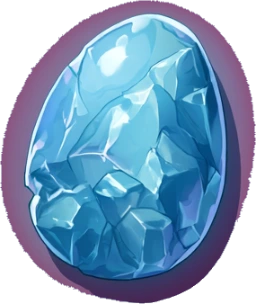
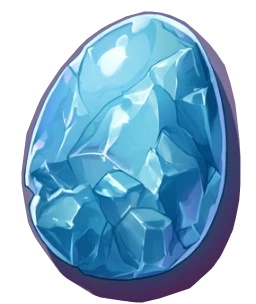
Yumurtalar her ekranda elementinin cizimiyle (catlatma, kulucka, kiraathane); Buz, Firtina, Toprak cizimlerindeki mor kenar temizlendi; Ozan kendiliginden calmaz, yalniz turku istenince

diff --git a/eo2/js/ocak25.js b/eo2/js/ocak25.js
@@ -34,7 +34,8 @@
       ...[...YENI, 'ev', 'kule', 'cali0', 'cali1', 'cali2', 'cit'].map(k => yukle('assets/dunya/an/oc-' + k + '.webp').then(im => { if (im) EO2.ext['on-' + k] = im; })),
       ...ESYA.map(k => yukle('assets/dunya/an/' + k + '.webp').then(im => { if (im) EO2.ext['on-' + k] = im; })),
       ...['cim', 'toprak', 'tas'].map(k => yukle('assets/zemin/' + k + '.webp').then(im => { if (im) EO2.ext['zm-' + k] = im; })), yukle('assets/dunya/an/ky-cim.webp').then(im => { if (im) EO2.ext['zm-cayir'] = im; }),
-      yukle('assets/bg/ocak-ufuk.webp').then(im => { if (im) EO2.ext['oc-ufuk'] = im; })]);
+      yukle('assets/bg/ocak-ufuk.webp').then(im => { if (im) EO2.ext['oc-ufuk'] = im; }),
+      ...[...ELS, 'soy'].map(k => yukle('assets/ik/yum-' + k + '.webp?v=2').then(im => { if (im) EO2.ext['yum-' + k] = im; }))]);
     /* yol dokusu: toprağın karşıtlığı azaltılmış kopyası. Motor zemin kabartmasını döşeme dokusundan çıkarıp bütün zemine uygular; ham dokuda taş izleri çime de çıkıyordu. */
     const tp = EO2.ext['zm-toprak']; if (tp && EO2.doku && EO2.doku.zemin) { EO2.doku.zemin['oc-yol'] = cv(1024, 1024, (x, w) => { x.drawImage(tp, 0, 0, w, w); x.fillStyle = 'rgba(206,172,122,.62)'; x.fillRect(0, 0, w, w); }); L.zemin = ['oc-yol', 'cim', 5.2, 9.5]; } })());
   (EO2.sahneOnce = EO2.sahneOnce || {}).ocak = onYukle;   // çizimler açılışta değil, Ocak'a girilirken yüklenir (game.js goScene bekler)
@@ -198,7 +199,8 @@
       for (let i = 0; i < 4; i++) tas(x, S * (0.18 + rn() * 0.64), S * (0.18 + rn() * 0.64), 8 + rn() * 6, 6 + rn() * 3, ['#8f8a86', '#6a6a6c']); } })));
     const tPed = [0, 1, 2].map(v => tex(leke(zTop, 256, 3600 + v * 29, 2.4, { kare: true, k: 0.375, ek(x, S) { for (const [a, b] of [[40, 214], [214, 216], [128, 232]]) tas(x, a + (rn() - 0.5) * 20, b - rn() * 8, 9 + rn() * 4, 6 + rn() * 2, TAS_RENK[Math.floor(rn() * 3)]); } })));
     const tKose = tex(cv(128, 128, (x, w, hh2) => { x.strokeStyle = '#ffe9a8'; x.lineWidth = 5; x.lineCap = 'round'; x.lineJoin = 'round'; const k = 24, m = 7; for (const [a, b, sx, sy] of [[m, m, 1, 1], [w - m, m, -1, 1], [m, hh2 - m, 1, -1], [w - m, hh2 - m, -1, -1]]) { x.beginPath(); x.moveTo(a + sx * k, b); x.lineTo(a, b); x.lineTo(a, b + sy * k); x.stroke(); } }));
-    const tCali = [0, 1, 2].map(v => { const c = cali(v), t = R.texture(c); return { t, w: TS * 0.98, h: TS * 0.98 * c.height / c.width }; }), tYum = R.texture(yumurta());
+    const tCali = [0, 1, 2].map(v => { const c = cali(v), t = R.texture(c); return { t, w: TS * 0.98, h: TS * 0.98 * c.height / c.width }; }), tYum = R.texture(yumurta()), tYumE = {}; [...ELS, 'soy'].forEach(k => { const im = (EO2.ext || {})['yum-' + k]; if (im) tYumE[k] = R.texture(cv(im.naturalWidth, im.naturalHeight, x => x.drawImage(im, 0, 0))); });
+    const yumDoku = q => { const m = /yum-(\w+)\.webp/.exec(G.yumurtaResim(q) || ''); return (m && tYumE[m[1]]) || tYum; };
     const KT = [...tYab, ...tPed, ...tBos];
     h.push({ key: 898, draw(R, F) { const S = W(); if (!S || !S.grid) return;
       const a = TS / 2 - 0.02; for (const tt of KT) S.grid.forEach((t, i) => { if ((!t.open ? tYab[i % 2] : t.b ? tPed[i % 3] : tBos[i % 2]) !== tt) return; const x = cx(i), y = cy(i), f = i % 2, g = (i >> 1) % 2;
@@ -223,7 +225,7 @@
         const I = ISIK[t.b]; if (I && (yeniC || eskiC)) { const gk = (0.12 + F.night * 0.7 + Math.sin(F.time * 3.1 + i) * 0.04) * a * it.cover, gz = bh * I[3], gr = Math.max(bw, bh) * 0.55; R.quad(h.T.fx, [x - gr, it.y - 0.04, gz - gr], [x + gr, it.y - 0.04, gz - gr], [x + gr, it.y - 0.04, gz + gr], [x - gr, it.y - 0.04, gz + gr], glow[0], glow[1], glow[2], glow[3], [I[0] * gk, I[1] * gk, I[2] * gk, 1], true, 0); }
         if (t.b === 'kulucka') { const eggs = (S.eggs || []).filter(q => q.inK), n = S.grid.filter(q => q.b === 'kulucka').length || 1, ki = S.grid.slice(0, i).filter(q => q.b === 'kulucka').length; eggs.filter((q, j) => j % n === ki).slice(0, 2).forEach((q, j) => { const ex = x + (j ? 0.42 : -0.02), ez = (yeniC ? 0.36 : 0.34) + Math.sin(F.time * 2 + j) * 0.03, g2 = 0.9 + Math.sin(F.time * 3 + j) * 0.25;
             R.quad(h.T.fx, [ex - 0.8, it.y - 0.04, ez - 0.4], [ex + 0.8, it.y - 0.04, ez - 0.4], [ex + 0.8, it.y - 0.04, ez + 1.2], [ex - 0.8, it.y - 0.04, ez + 1.2], glow[0], glow[1], glow[2], glow[3], [0.9 * g2 * a, 0.5 * g2 * a, 0.15 * g2 * a, 1], true, 0);
-            R.quad(tYum, [ex - 0.27, it.y - 0.05, ez], [ex + 0.27, it.y - 0.05, ez], [ex + 0.27, it.y - 0.05, ez + 0.68], [ex - 0.27, it.y - 0.05, ez + 0.68], 0, 0, 1, 1, c); }); } } }; h.push(it); }
+            R.quad(yumDoku(q), [ex - 0.26, it.y - 0.05, ez], [ex + 0.26, it.y - 0.05, ez], [ex + 0.26, it.y - 0.05, ez + 0.69], [ex - 0.26, it.y - 0.05, ez + 0.69], 0, 0, 1, 1, c); }); } } }; h.push(it); }
     /* ejderhalar: gerçek boylarında, nefes alır, yürürken hafifçe sallanır */
     const gorT = new Map();   // gen renkli görünüş resimlerinin dokuları
     for (let k = 0; k < ejSlot.length; k++) { const it = { key: -99, draw(R, F) { const S = W(), d = S && S.dragons ? S.dragons.filter(q => !q.dead)[k] : null, g = d && gez[d.id]; if (!g) { it.key = -99; return; } it.key = g.y; const gi = G.gorunusIm && d.genes ? G.gorunusIm(d) : null; let e = null; if (gi) { e = gorT.get(gi); if (!e) { e = { t: R.texture(gi), w: gi.naturalWidth, h: gi.naturalHeight }; gorT.set(gi, e); } } else e = h.ext('dr-' + d.el + '-' + d.stage); if (!e) return;

diff --git a/eo2/js/oyun.js b/eo2/js/oyun.js
@@ -10,7 +10,7 @@
   EO2.surum = '2.0.0';
   /* yumurta çizimi: genlerdeki baskın elemente göre (eski oyun da yumurtayı elementinin rengiyle gösterir); gen yoksa sedef yumurta */
   G.yumurtaResim = e => { let el = ''; try { const g = e && e.genes && e.genes.el; el = g ? (typeof expEl === 'function' ? expEl(g) : g[0]) : (e && e.el) || ''; } catch (_) { el = ''; }
-    return 'assets/ik/yum-' + (['ates', 'buz', 'firtina', 'toprak', 'golge'].includes(el) ? el : 'soy') + '.webp'; };   // sürüm numarası: giriş ekranındaki künyede ve sorun bildirimlerinde görünür
+    return 'assets/ik/yum-' + (['ates', 'buz', 'firtina', 'toprak', 'golge'].includes(el) ? el : 'soy') + '.webp?v=2'; };   // sürüm numarası: giriş ekranındaki künyede ve sorun bildirimlerinde görünür
   const EV_NPC = { harita: 'selin', bataklik: 'selin', demirhan: 'demirhan', tac_davet: 'demirhan', dem2: 'demirhan', dem3: 'demirhan', dem4: 'demirhan', selin_yavru: 'selin', kor_ani: 'dede', cukur: 'cukur', cukur2: 'cukur', kan_tuccari: 'kantuccari', kerim: 'kerim', kristal: 'tuccar', ozan: 'ozan', sponsor: 'tuccar', kupa_ilan: 'muhtar', hirsiz: 'muhtar', son_gece: 'dede', mektup: 'dede', bilge: 'bilge', pul: 'muhtar' };
   const NPC_AD = { dede: 'Deden', selin: 'Haritacı Selin', demirhan: 'Demirhan', kerim: 'Usta Kerim', tuccar: 'Ejderha tüccarı Rüstem', kantuccari: 'Kan tüccarı', cukur: 'Yara izli adam', muhtar: 'Muhtar', ozan: 'Gezgin ozan', bilge: 'Bilge ejderha' };
   G.ELC = { ates: '#ff7a3d', buz: '#6fd0ff', firtina: '#b58cff', toprak: '#8fcf5a', golge: '#9a6bff' };
@@ -147,7 +147,7 @@
   window.eventModal = ev => { eventPen(ev).then(() => G.redraw()); };
   /* doğum sahnesi: yumurtaya dokundukça çatlar; üçüncü dokunuşta kabuk açılır, yavru görünür ve adı konur (hatchEgg oyunun kendisidir) */
   function hatchPen(egg) { return new Promise(res => { pens++; const w = el('div', 'dogum-s'); w.style.setProperty('--sahne', 'url("' + G.bgUrl('bg-yuva') + '")'); let n = 0;
-    w.innerHTML = '<div class="dg-bas"><small>Kuluçka ocağı</small><h1>Kabuk çatlıyor</h1><p>' + (egg.origin || 'Yumurta') + '. İçeriden tırmalama sesleri geliyor.</p></div><button type="button" class="dg-yumurta" aria-label="Yumurtaya dokun"><i class="kabuk"></i><svg viewBox="0 0 100 130" class="catlak"><path class="c1" d="M50 8l-7 16 9 9-10 12 6 10"/><path class="c2" d="M18 58l14 4 6-10 10 12 12-8 8 12 14-4"/><path class="c3" d="M30 100l8-14 10 8 6-14 10 12 8-10"/></svg></button><div class="dg-alt"><span class="dg-ipucu">Yumurtaya dokun</span></div>';
+    w.innerHTML = '<div class="dg-bas"><small>Kuluçka ocağı</small><h1>Kabuk çatlıyor</h1><p>' + (egg.origin || 'Yumurta') + '. İçeriden tırmalama sesleri geliyor.</p></div><button type="button" class="dg-yumurta" aria-label="Yumurtaya dokun"><i class="kabuk res" style="background-image:url(' + G.yumurtaResim(egg) + ')"></i><svg viewBox="0 0 100 130" class="catlak"><path class="c1" d="M54 13l-9 12 9 9-10 12 6 10"/><path class="c2" d="M18 58l14 4 6-10 10 12 12-8 8 12 14-4"/><path class="c3" d="M30 100l8-14 10 8 6-14 10 12 8-10"/></svg></button><div class="dg-alt"><span class="dg-ipucu">Yumurtaya dokun</span></div>';
     app.appendChild(w); const yum = w.querySelector('.dg-yumurta');
     const ac = () => { const { d, notes } = hatchEgg(egg); if (EO2.audio) EO2.audio.chime(); if (G.fx) { G.fx.flash('rgba(255,245,210,.85)'); G.fx.stars(yum, 34); G.fx.burst(yum, G.ELC[d.el], 26); }
       w.classList.add('acildi'); w.style.setProperty('--el', G.ELC[d.el]);

diff --git a/eo2/js/audio.js b/eo2/js/audio.js
@@ -34,7 +34,8 @@
   const A = 220, SC = [A, A * 1.0905, A * 1.189, A * 1.335, A * 1.498, A * 1.652, A * 1.782, A * 2];
   const RIFFS = [[0, 2, 1, 0, 3, 2, 1, 2, 0], [4, 3, 2, 3, 4, 5, 4, 3, 2], [0, 1, 2, 3, 2, 1, 0, 1, 0], [4, 5, 6, 7, 6, 5, 4, 3, 4], [2, 3, 4, 3, 2, 1, 0, 1, 0]];
   let sazT = 0, riffI = 0;
-  function sazTick() { if (!ctx || !on || st.battle) return; const d = Math.hypot(st.ox, st.oy), g = Math.max(0, 1 - d / 13); if (g <= 0.02 && st.sazBoost <= 0) { sazT = 0; return; }
+  /* Ozan kendiliğinden çalmaz (kullanıcı kararı 2026-11-19: sürekli çalgı sinir bozucuydu); yalnız türkü istenince kısa bir süre çalar */
+  function sazTick() { if (!ctx || !on || st.battle) return; const d = Math.hypot(st.ox, st.oy), g = Math.max(0, 1 - d / 13); if (st.sazBoost <= 0) { sazT = 0; return; }
     const t = now(); if (sazT < t + 0.1) sazT = t + 0.15; const beat = st.sazBoost > 0 ? 0.2 : 0.27;
     while (sazT < t + 1.2) { const r = RIFFS[riffI++ % RIFFS.length], k = (0.16 + st.sazBoost * 0.12) * (0.25 + g * 0.75), pan = Math.max(-0.8, Math.min(0.8, st.ox / 8));
       for (let i = 0; i < 9; i++) { const acc = i === 0 || i === 2 || i === 4 || i === 6; playBuf(pluck(SC[r[i]]), sazT + i * beat, k * (acc ? 1 : 0.6), pan, 0, gAmb); if (acc) playBuf(pluck(A / 2), sazT + i * beat, k * 0.5, pan, 0, gAmb); }
@@ -72,8 +73,8 @@
   function muzik(liste) { const L = !liste ? [] : Array.isArray(liste) ? liste : [liste], key = L.join('|'); if (key === mz.key) return; mz.key = key; mz.liste = L; mz.i = 0; gecis(); }
   /* açma, kapama, sekme ve düzey değişince: çalması gerekiyorsa başlat, gerekmiyorsa sustur */
   function muzikTazele() { if (!ctx) return; if (!muzikAcik()) { if (mz.a) { muzikSus(mz.a, true); mz.a = null; } } else if (!mz.a && mz.liste.length) gecis(); }
-  /* Ozan'ın sazına yaklaşınca müzik geri çekilir: iki ezgi üst üste binmez */
-  function kisTick() { if (!ctx) return; const d = Math.hypot(st.ox, st.oy), g = Math.max(st.sazBoost, Math.max(0, 1 - d / 13)); gKis.gain.setTargetAtTime(st.battle ? 1 : 1 - 0.85 * Math.min(1, g * 1.6), now(), 0.5); }
+  /* Ozan türkü çalarken müzik geri çekilir: iki ezgi üst üste binmez */
+  function kisTick() { if (!ctx) return; const g = st.sazBoost; gKis.gain.setTargetAtTime(st.battle ? 1 : 1 - 0.85 * Math.min(1, g * 1.6), now(), 0.5); }
   /* hangi sahnede ne çalar (eski oyunun eşlemesi temel alındı: js/fx.js BGM) */
   const DUNYA = ['mus-ocak', 'mus-ocak-2'];
   const SAHNE_M = { yol: ['mus-sefer-2'], kuzeyyolu: ['mus-sefer-2'], pazar: ['mus-pazar'], carsi: ['mus-pazar'], han: ['mus-gece'], hanici: ['mus-gece'] };

diff --git a/eo2/js/kiraathane2.js b/eo2/js/kiraathane2.js
@@ -54,7 +54,7 @@
     if (e.t === 'yem') { const F = FOODS[e.k] || {}; return { ad: F.ad || e.k, alt: 'Yem ve iksir', img: OLD + 'img/' + (e.k === 'genclik' ? 'ic-feed' : 'food-' + e.k) + '.webp', deger: F.fiyat || 0, var: (S.food && S.food[e.k]) || 0 }; }
     if (e.t === 'tas') { const T = TAS0[e.k] || [e.k, 'stone_kor_t1', 0]; return { ad: T[0], alt: CEVHER.includes(e.k) ? 'Cevher' : 'Taş', img: OLD + 'img/ui/items/' + T[1] + '.webp', deger: tasFiyat(e.k), var: tasSay(e.k) }; }
     if (e.t === 'yumurta') { const y = e.veri || (S.eggs || []).find(x => x.id === e.id); if (!y) return { ad: 'Yumurta', alt: '', img: G.yumurtaResim(null), deger: 0, var: 0 };
-      return { ad: EL_AD[yumEl(y)] + ' yumurtası', alt: y.origin || 'Yumurta', img: OLD + 'img/ui/egg-' + yumEl(y) + '.webp', deger: Math.round(lotValue({ kind: 'egg', egg: y })), var: 1, nesne: y }; }
+      return { ad: EL_AD[yumEl(y)] + ' yumurtası', alt: y.origin || 'Yumurta', img: G.yumurtaResim(y), deger: Math.round(lotValue({ kind: 'egg', egg: y })), var: 1, nesne: y }; }
     if (e.t === 'ejder') { const d = e.veri || byId(e.id); if (!d) return { ad: 'Ejderha', alt: '', img: '', deger: 0, var: 0 };
       return { ad: d.name, alt: EL_AD[d.el] + ' · ' + STAGE_AD[d.stage], img: G.img(d), deger: value(d), var: 1, nesne: d }; }
     if (e.t === 'kusam') { const x = e.veri || (S.inv || []).find(i => i.uid === e.id), it = x && ITEMS[x.id]; if (!it) return { ad: 'Kuşam', alt: '', img: '', deger: 0, var: 0 };

diff --git a/eo2/js/ayarlar.js b/eo2/js/ayarlar.js
@@ -67,7 +67,7 @@
       const acik = !EO2.audio || !EO2.audio.isOn || EO2.audio.isOn();
       body.innerHTML = '<div class="ay-pencere cam">' +
         '<section class="ay-bolum"><h2>Ses</h2>' + (acik ? '' : '<p class="ay-uyari">Ses kapalı. <button type="button" class="ay-bag" data-sesac>Sesi aç</button></p>') +
-          surgu('muzik', 'Müzik', 'Meydanın, hanın ve arenanın ezgileri') + surgu('efekt', 'Efektler', 'Adımlar, düğmeler, dövüş') + surgu('ortam', 'Ortam', 'Çeşme, rüzgâr, kuşlar, Ozan\'ın sazı') + '</section>' +
+          surgu('muzik', 'Müzik', 'Meydanın, hanın ve arenanın ezgileri') + surgu('efekt', 'Efektler', 'Adımlar, düğmeler, dövüş') + surgu('ortam', 'Ortam', 'Çeşme, rüzgâr, kuşlar') + '</section>' +
         '<section class="ay-bolum"><h2>Görüntü</h2>' +
           '<div class="ay-secim"><span class="ay-ad">Arayüz boyu<small>Yazılar ve düğmeler</small></span>' + hap('olcek', [['kucuk', 'Küçük'], ['normal', 'Normal'], ['buyuk', 'Büyük']]) + '</div>' +
           '<div class="ay-secim"><span class="ay-ad">Çizim kalitesi<small>' + (a.kalite === 'dengeli' ? 'Dengeli: daha akıcı, pili daha az yer' : 'Yüksek: en keskin görüntü') + '</small></span>' + hap('kalite', [['yuksek', 'Yüksek'], ['dengeli', 'Dengeli']]) + '</div>' +

diff --git a/eo2/css/cila.css b/eo2/css/cila.css
@@ -454,3 +454,8 @@ html, body, #app.ui2 { overflow: clip; }
 .ui2 .gr-al > span { display: grid; gap: .25em; min-width: 0; } .ui2 .gr-malzler { display: flex; flex-wrap: wrap; gap: .3em; }
 .ui2 .gr-malz { padding: .15em .6em; border-radius: 1em; font: 600 max(12px, .85em) var(--f-ui); font-style: normal; color: #d8f5e2; background: rgba(110, 224, 138, .14); box-shadow: inset 0 0 0 1px rgba(110, 224, 138, .5); } .ui2 .gr-malz b { font-weight: 800; }
 .ui2 .gr-malz.eksik { color: #ffd2c8; background: rgba(255, 120, 100, .14); box-shadow: inset 0 0 0 1px rgba(255, 120, 100, .55); } .ui2 .gr-nereden { font: 600 max(12px, .78em) var(--f-ui); opacity: .75; }
+
+/* doğum sahnesi: yumurtanın elementine göre çizimi; çatlaklar her renkte okunsun diye açık renk, koyu kenarlı */
+.ui2 .dg-yumurta .kabuk.res { border-radius: 0; background: center / contain no-repeat; box-shadow: none; filter: drop-shadow(0 0 1.4em rgba(255, 200, 130, .35)) drop-shadow(0 .5em .6em rgba(4, 6, 16, .45)); }
+.ui2 .dg-yumurta .kabuk.res::after { display: none; }
+.ui2 .dg-yumurta .kabuk.res ~ .catlak path { stroke: #fff4d6; stroke-width: 2.6; filter: drop-shadow(0 0 1px #1a0c04) drop-shadow(0 0 4px rgba(255, 220, 140, .9)); }
